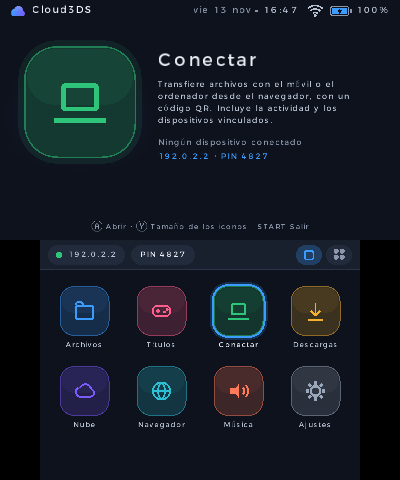
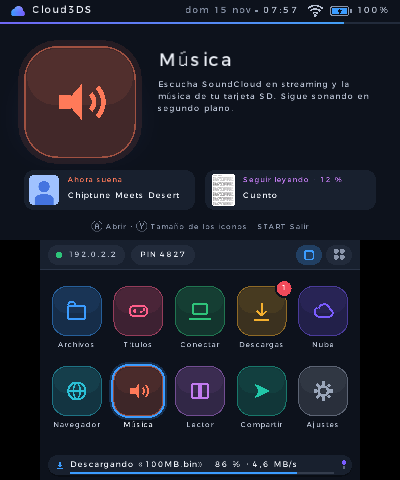
README: captura del inicio actualizada
La captura del inicio era de una versión anterior. La nueva muestra los
widgets de arriba (lo que suena y lo último leído), la app Lector en la
cuadrícula y la barrita de abajo con lo que está en marcha.

diff --git a/README.md b/README.md
@@ -7,7 +7,7 @@
 <a href='https://ko-fi.com/W3A028X2KV' target='_blank'><img height='36' style='border:0px;height:36px;' src='https://storage.ko-fi.com/cdn/kofi3.png?v=6' border='0' alt='Buy Me a Coffee at ko-fi.com' /></a>
 
 <p align="center">
-  <img src="docs/inicio.png" width="260" alt="El inicio: cada función es una aplicación">
+  <img src="docs/inicio.png" width="260" alt="El inicio: cada función es una aplicación, con lo que suena, lo último leído y lo que está en marcha abajo">
   <img src="docs/conectar.png" width="260" alt="Conectar: el QR, la dirección, el PIN y la actividad">
   <img src="docs/titulos.png" width="260" alt="Títulos: juegos y aplicaciones instalados y lo que ocupan">
 </p>
